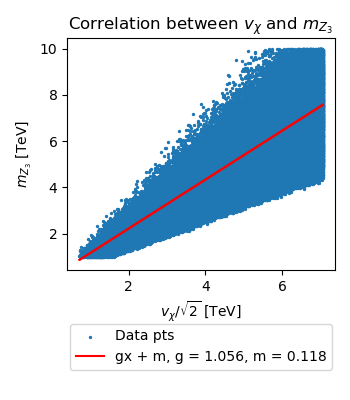
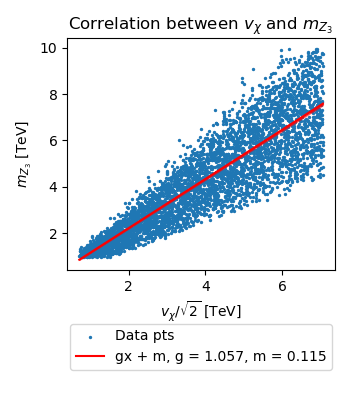
new model

diff --git a/simplemodel.py b/simplemodel.py
@@ -43,14 +43,7 @@ def closest_Z_mass(gs, mzs,g, vs):
     Delta2, V = get_delta2_V(g,gs,vs)
     return np.sqrt(2*Delta2[1:]) - mzs
 
-# Returns the basis for the Z-coupling in the standard model, with [I_L3, Q]
-def get_base_Z(g,g_prim):
-    return np.sqrt(g**2 + g_prim**2)*np.array([1, -conts.sw2])
 
-# Returns the basis for the gamma-coupling in the standard model, with [I_L3, Q]
-def get_base_gamma():
-    return np.array([0, conts.e_em])
-    
 # Builds the yukawa matrix as specified in the article. 
 # VEVs are treated unnormalized prior to this
 def build_yukawa(ys, ms, vs, alt = False):
@@ -178,8 +171,8 @@ def alt_solve_for_ys(ys,g,g_prim,v_us,v_ds, V, M_Us, m_us, m_ds):
     m_u_compare = diag_yukawa_u[:3] - m_us
     m_d_compare = diag_yukawa_d[:3] - m_ds
     
-    base_SM_Z = get_base_Z(g,g_prim)
-    base_SM_gamma = get_base_gamma()
+    base_SM_Z = fs.get_base_Z(g,g_prim)
+    base_SM_gamma = fs.get_base_gamma()
     compare_Qs = np.concatenate((Q_compare("u", V[:,1], base_SM_Z, U_u_L, Uh_u_R), Q_compare("u", V[:,0], base_SM_gamma, U_u_L, Uh_u_R),
                                  Q_compare("d", V[:,1], base_SM_Z, U_d_L, Uh_d_R), Q_compare("d", V[:,0], base_SM_gamma, U_d_L, Uh_d_R)))
     
@@ -311,7 +304,7 @@ def get_y_models(filename, search_for_ys = False, g_model_list = None, cost_tol 
                         real_M_Us = diag_yukawa_u[3:]
                         real_M_Ds = diag_yukawa_d[3:]
                         base = V[:,1]
-                        base_SM = get_base_Z(g,g_prim)
+                        base_SM = fs.get_base_Z(g,g_prim)
                         # base_SM_gamma = np.array([0, conts.e_em])
                         # base_SM = np.array([(g**2)/np.sqrt(g**2 + g_prim**2), (g_prim**2)/np.sqrt(g**2 + g_prim**2)])
                         #base_SM = np.array([(g*g_prim)/np.sqrt(g**2 + g_prim**2), (g*g_prim)/np.sqrt(g**2 + g_prim**2)])
@@ -396,7 +389,7 @@ def refine_y_models(filename, y_model_list, g_model_list, cost_tol = 0.5, max_it
                 real_M_Us = diag_yukawa_u[3:]
                 real_M_Ds = diag_yukawa_d[3:]
                 base = V[:,1]
-                base_SM = get_base_Z(g,g_prim)
+                base_SM = fs.get_base_Z(g,g_prim)
                 # base_SM_gamma = np.array([0, conts.e_em])
                 # base_SM = np.array([(g**2)/np.sqrt(g**2 + g_prim**2), (g_prim**2)/np.sqrt(g**2 + g_prim**2)])
                 #base_SM = np.array([(g*g_prim)/np.sqrt(g**2 + g_prim**2), (g*g_prim)/np.sqrt(g**2 + g_prim**2)])
@@ -532,7 +525,7 @@ if __name__ == "__main__":
     g_plotting = False
     y_plotting = True
     picking_gs = False
-    refining_ys = True
+    refining_ys = False
 
     if picking_gs:
         g_filename = "correct_g_models_again.npz"
@@ -544,9 +537,9 @@ if __name__ == "__main__":
         np.savez("saved_g_models.npz", *g_model_list)
     
     
-    y_filename = "y_models_dof_28_3.npz"
+    #y_filename = "y_models_dof_28_3.npz"
     #y_filename = "valid_y_models.npz"
-    #y_filename = "refined_y_dof_28_1_1.npz"
+    y_filename = "refined_y_dof_28_2_1.npz"
     y_model_list = get_y_models(y_filename, search_for_ys, g_model_list, cost_tol=0.3, max_iters=20, m_repeats=40, verbose=False, alt = True)
 
     if refining_ys:
@@ -559,6 +552,7 @@ if __name__ == "__main__":
         f  = open("saved_g_regrs.txt", "w")
         g1_list = [model[2,0] for model in g_model_list]
         g2_list = [model[2,1] for model in g_model_list]
+        g12_list = [model[2,1]+ model[2,0] for model in g_model_list]
         v_strings = ["\chi", "\phi", "\sigma"]
         m_strings = ["Z_3", "Z_3'", "Z_{12}"]
         for i in range(1,4):
@@ -636,6 +630,10 @@ if __name__ == "__main__":
         g_idx_list = [int(model[4]) for model in y_model_list]
         cost_list = []
         real_Lambda_effs = get_lambda_limits()
+        sd_list = []
+        uc_list = []
+        bd_list = []
+        bs_list = []
 
         for y_model in y_model_list:
             y_us = np.array(y_model[0])
@@ -668,7 +666,7 @@ if __name__ == "__main__":
             
             #print(diag_yukawa_u[:3] - m_us)
             
-            base_SM = get_base_Z(g,g_prim)
+            base_SM = fs.get_base_Z(g,g_prim)
             sm_Q_d_L = np.diag(sm_Q("d_L", base_SM))
             sm_Q_d_R = np.diag(sm_Q("d_R", base_SM))
             tot_L_diffs = []
@@ -711,12 +709,14 @@ if __name__ == "__main__":
                 Lambda_eff = np.sqrt(1/cs)
                 Lambda_effs_list[k-1].append(Lambda_eff)
                 L_diffs = Lambda_eff - real_Lambda_effs
-                tot_L_diffs.extend(L_diffs)
+                if k == 1:
+                    tot_L_diffs.extend(L_diffs)
             tot_L_diffs = np.array(tot_L_diffs)
             finite_idx = np.isfinite(tot_L_diffs)
             tot_L_diffs = tot_L_diffs[finite_idx]
-      
-            if (tot_L_diffs[0:4] > 0).all():
+
+
+            if (tot_L_diffs > 0).all():
                 if valid_model_check:
                     print("Found valid model")
                 
@@ -737,7 +737,7 @@ if __name__ == "__main__":
         Z_strings = ["Z", "Z_3", "Z_3'", "Z_{12}"]
         c_strings = ["\Lambda^{sd}_{LL}", "\Lambda^{uc}_{LL}", "\Lambda^{bd}_{LL}",
                      "\Lambda^{bs}_{LL}"]
-        simp_c_strings = ["sd_LL", "sd_LR", "uc_LL", "uc_LR", "bd_LL", "bd_LR", "bs_LL", "bs_LR"]
+        simp_c_strings = ["sd_LL", "uc_LL", "bd_LL", "bs_LL"]
         fig, axs = plt.subplots(1,4,figsize=(7,3))
         lines = [None]*5
         for n in range(len(cs)):

diff --git a/compmodel.py b/compmodel.py
@@ -1,0 +1,41 @@
+import flavorstuff as fs
+import numpy as np
+import sympy as sp
+
+def get_F_down_simple(u_L, d_L, u_R, d_R, gs):
+    F_ij = np.array([0, gs[0]*u_R, gs[1]*d_L, 0],
+                    [-gs[2]*u_R, 0, gs[3]*u_L, 0],
+                    [gs[4]*d_L, gs[5]*u_L, 0, gs[6]*u_R,
+                     [0,0, gs[7]*u_R, gs[8]*d_R]])
+    return F_ij
+
+def get_F_up_simple(u_L, d_L, u_R, d_R, gs):
+    F_ij = np.array([gs[0]*u_R,0, gs[1]*u_L, 0],
+                    [ 0, -gs[2]*u_R, gs[3]*d_L, 0],
+                    [0,0,gs[4]*u_R, gs[5]*d_R],
+                    [[gs[6]*d_L,0, gs[7]*u_L, gs[8]*u_R]])
+    return F_ij
+
+def get_omega(theta):
+    omega = np.array([[0, np.cos(theta), 0 , np.sin(theta)],
+                      [-np.cos(theta), 0, -np.sin(theta), 0],
+                      [0, np.sin(theta), 0, -np.cos(theta)],
+                      [-np.sin(theta), 0, np.cos(theta), 0]])
+    return omega
+
+def sym_term_one(F_down, y, omega, mu_1, mu_10):
+    a = (F_down @ omega.T) @ (F_down @ omega.T)
+    b = 
+    return
+
+def sym_term_two():
+    pass
+
+def sym_term_three():
+    pass
+
+def sym_lagrangian_simple(gs, y, mus, theta):
+    u_R,d_L,u_L,d_R = sp.symbols("u_R d_L u_L d_R", real = True)
+    F_down = get_F_down_simple(u_L,d_L,u_R, d_R, gs)
+    F_up = get_F_up_simple(u_L,d_L,u_R, d_R, gs)
+    omega = get_omega(theta)

diff --git a/flavorstuff.py b/flavorstuff.py
@@ -56,6 +56,7 @@ class constants:
         self.alpha = 1/137.035999180
         self.e_em = np.sqrt(4*np.pi*self.alpha)
 
+conts = constants()
 # Method for finding the gauge boson basis given an M
 def gauge_boson_basis(M):
     MT = M.conj().T
@@ -158,4 +159,11 @@ def find_charge(type_, field, charge):
 def Z_coupling(g,g_prim):
     pass
 
+# Returns the basis for the Z-coupling in the standard model, with [I_L3, Q]
+def get_base_Z(g,g_prim):
+    return np.sqrt(g**2 + g_prim**2)*np.array([1, -conts.sw2])
+
+# Returns the basis for the gamma-coupling in the standard model, with [I_L3, Q]
+def get_base_gamma():
+    return np.array([0, conts.e_em])
     
